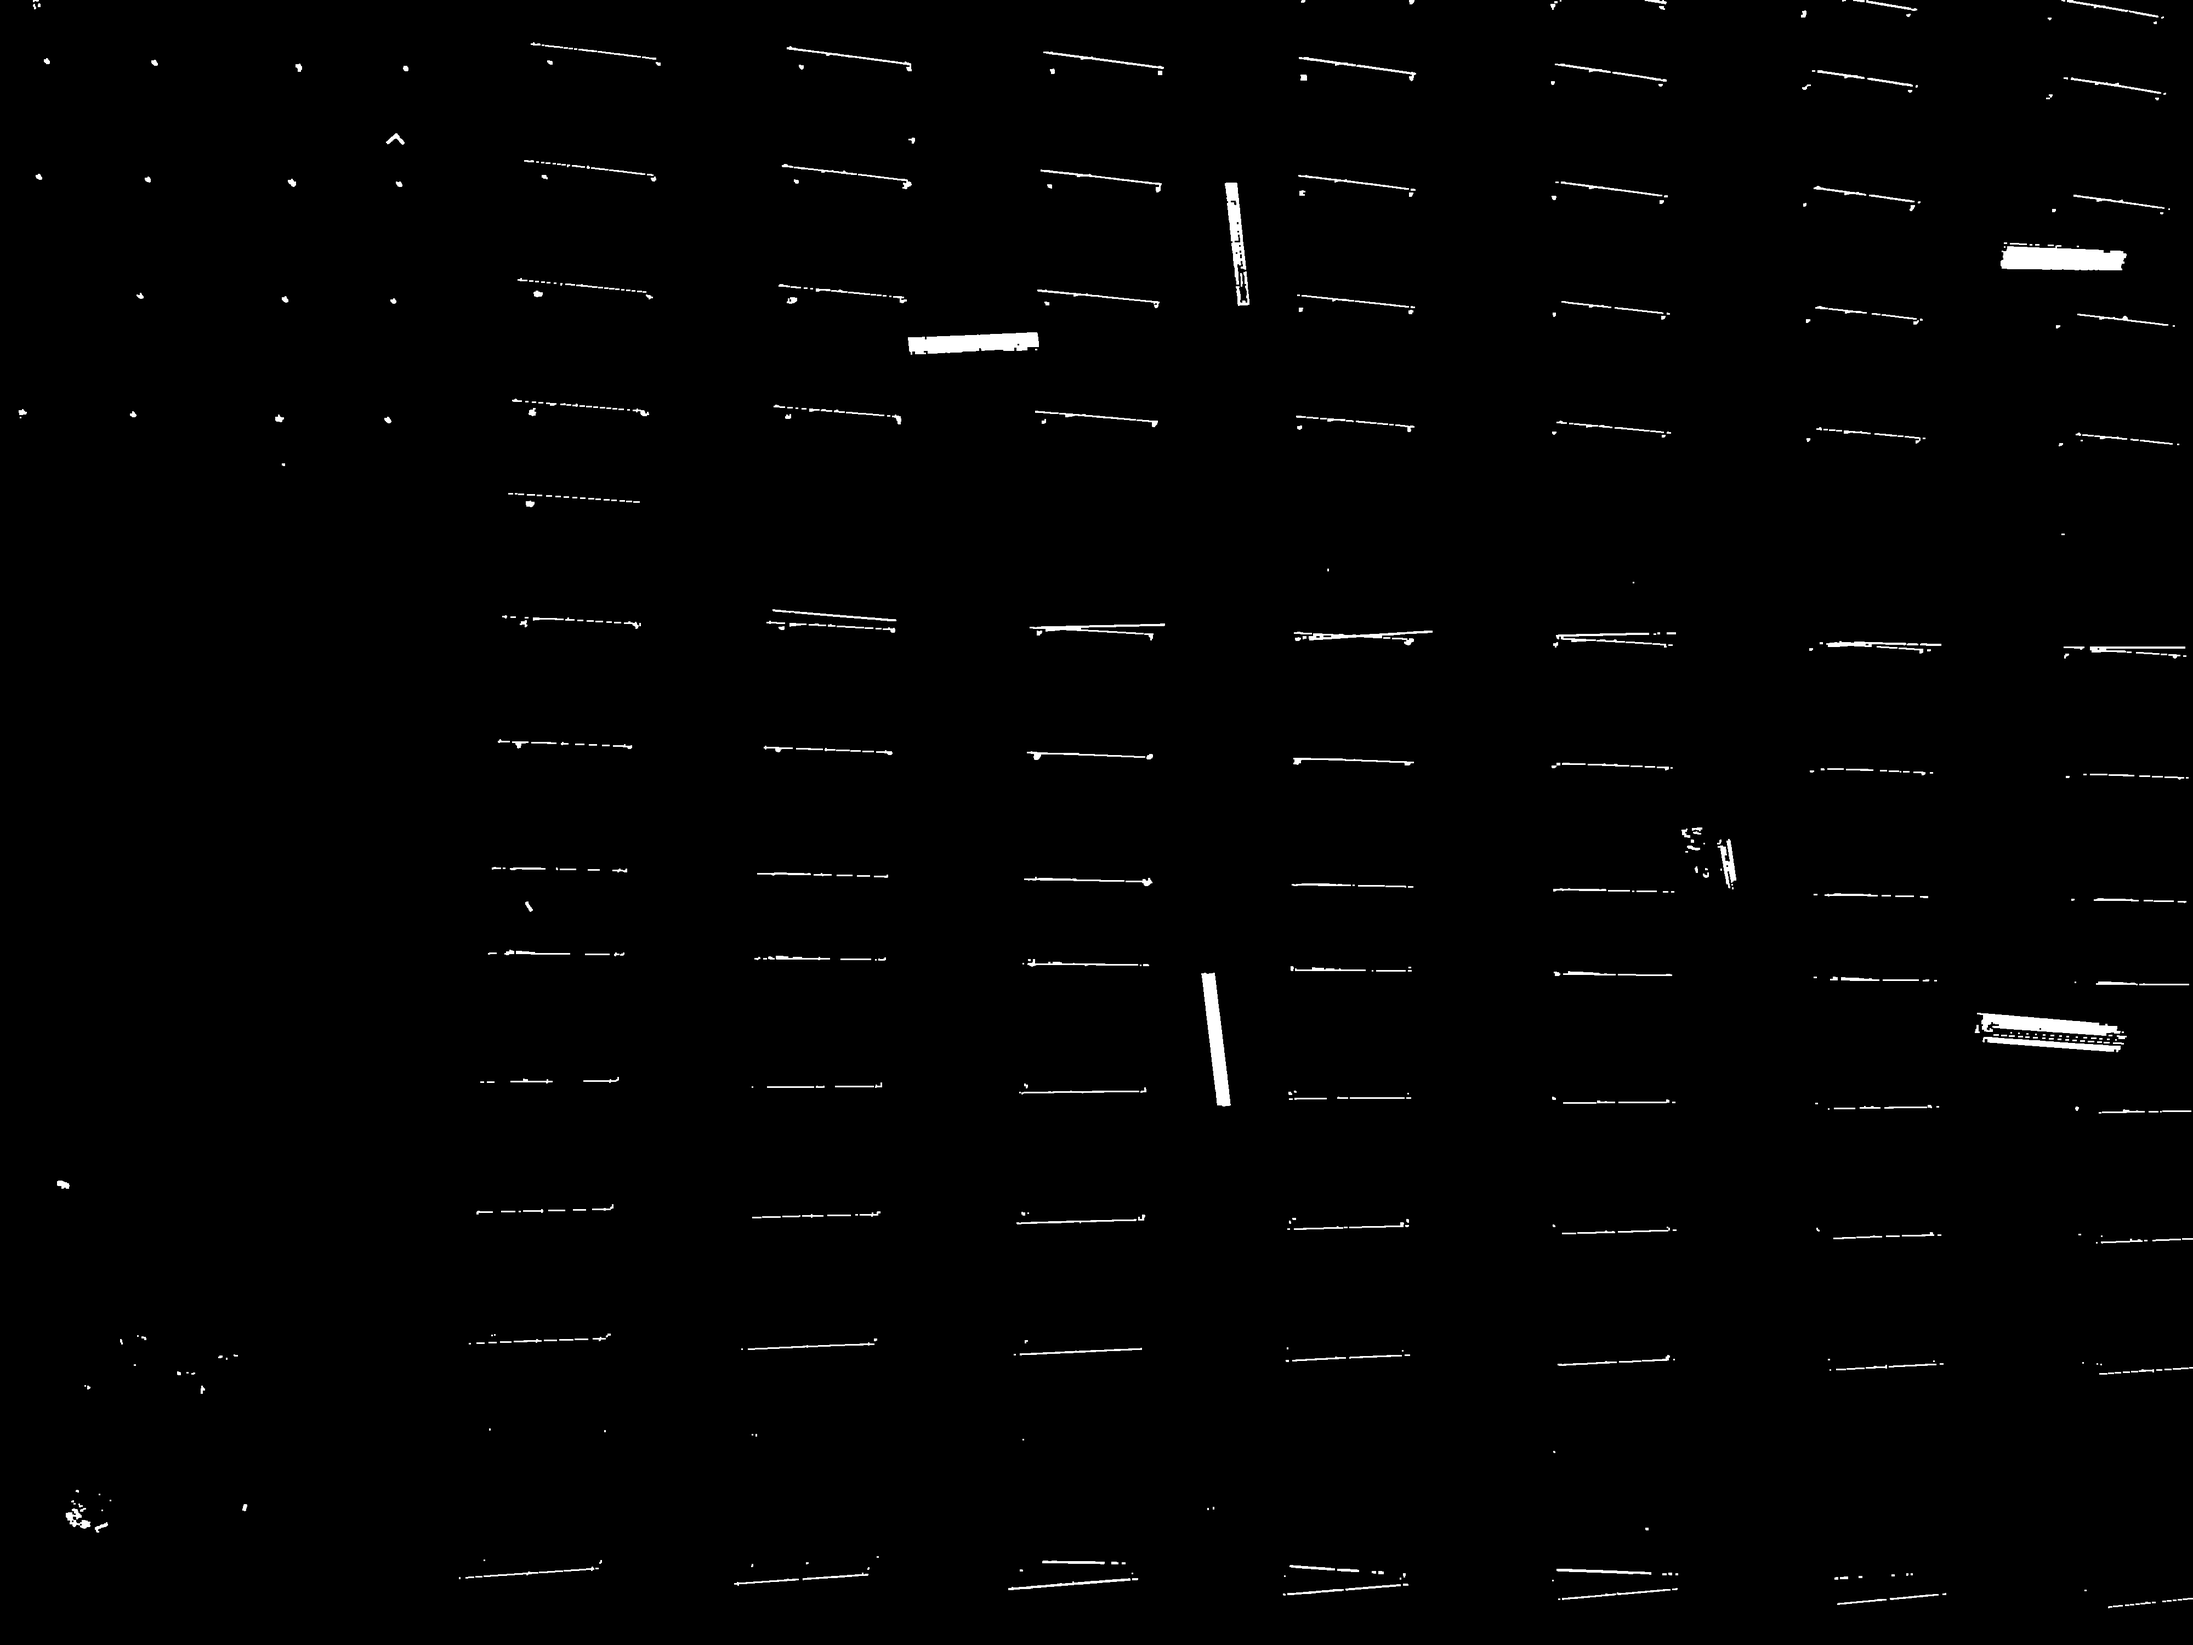
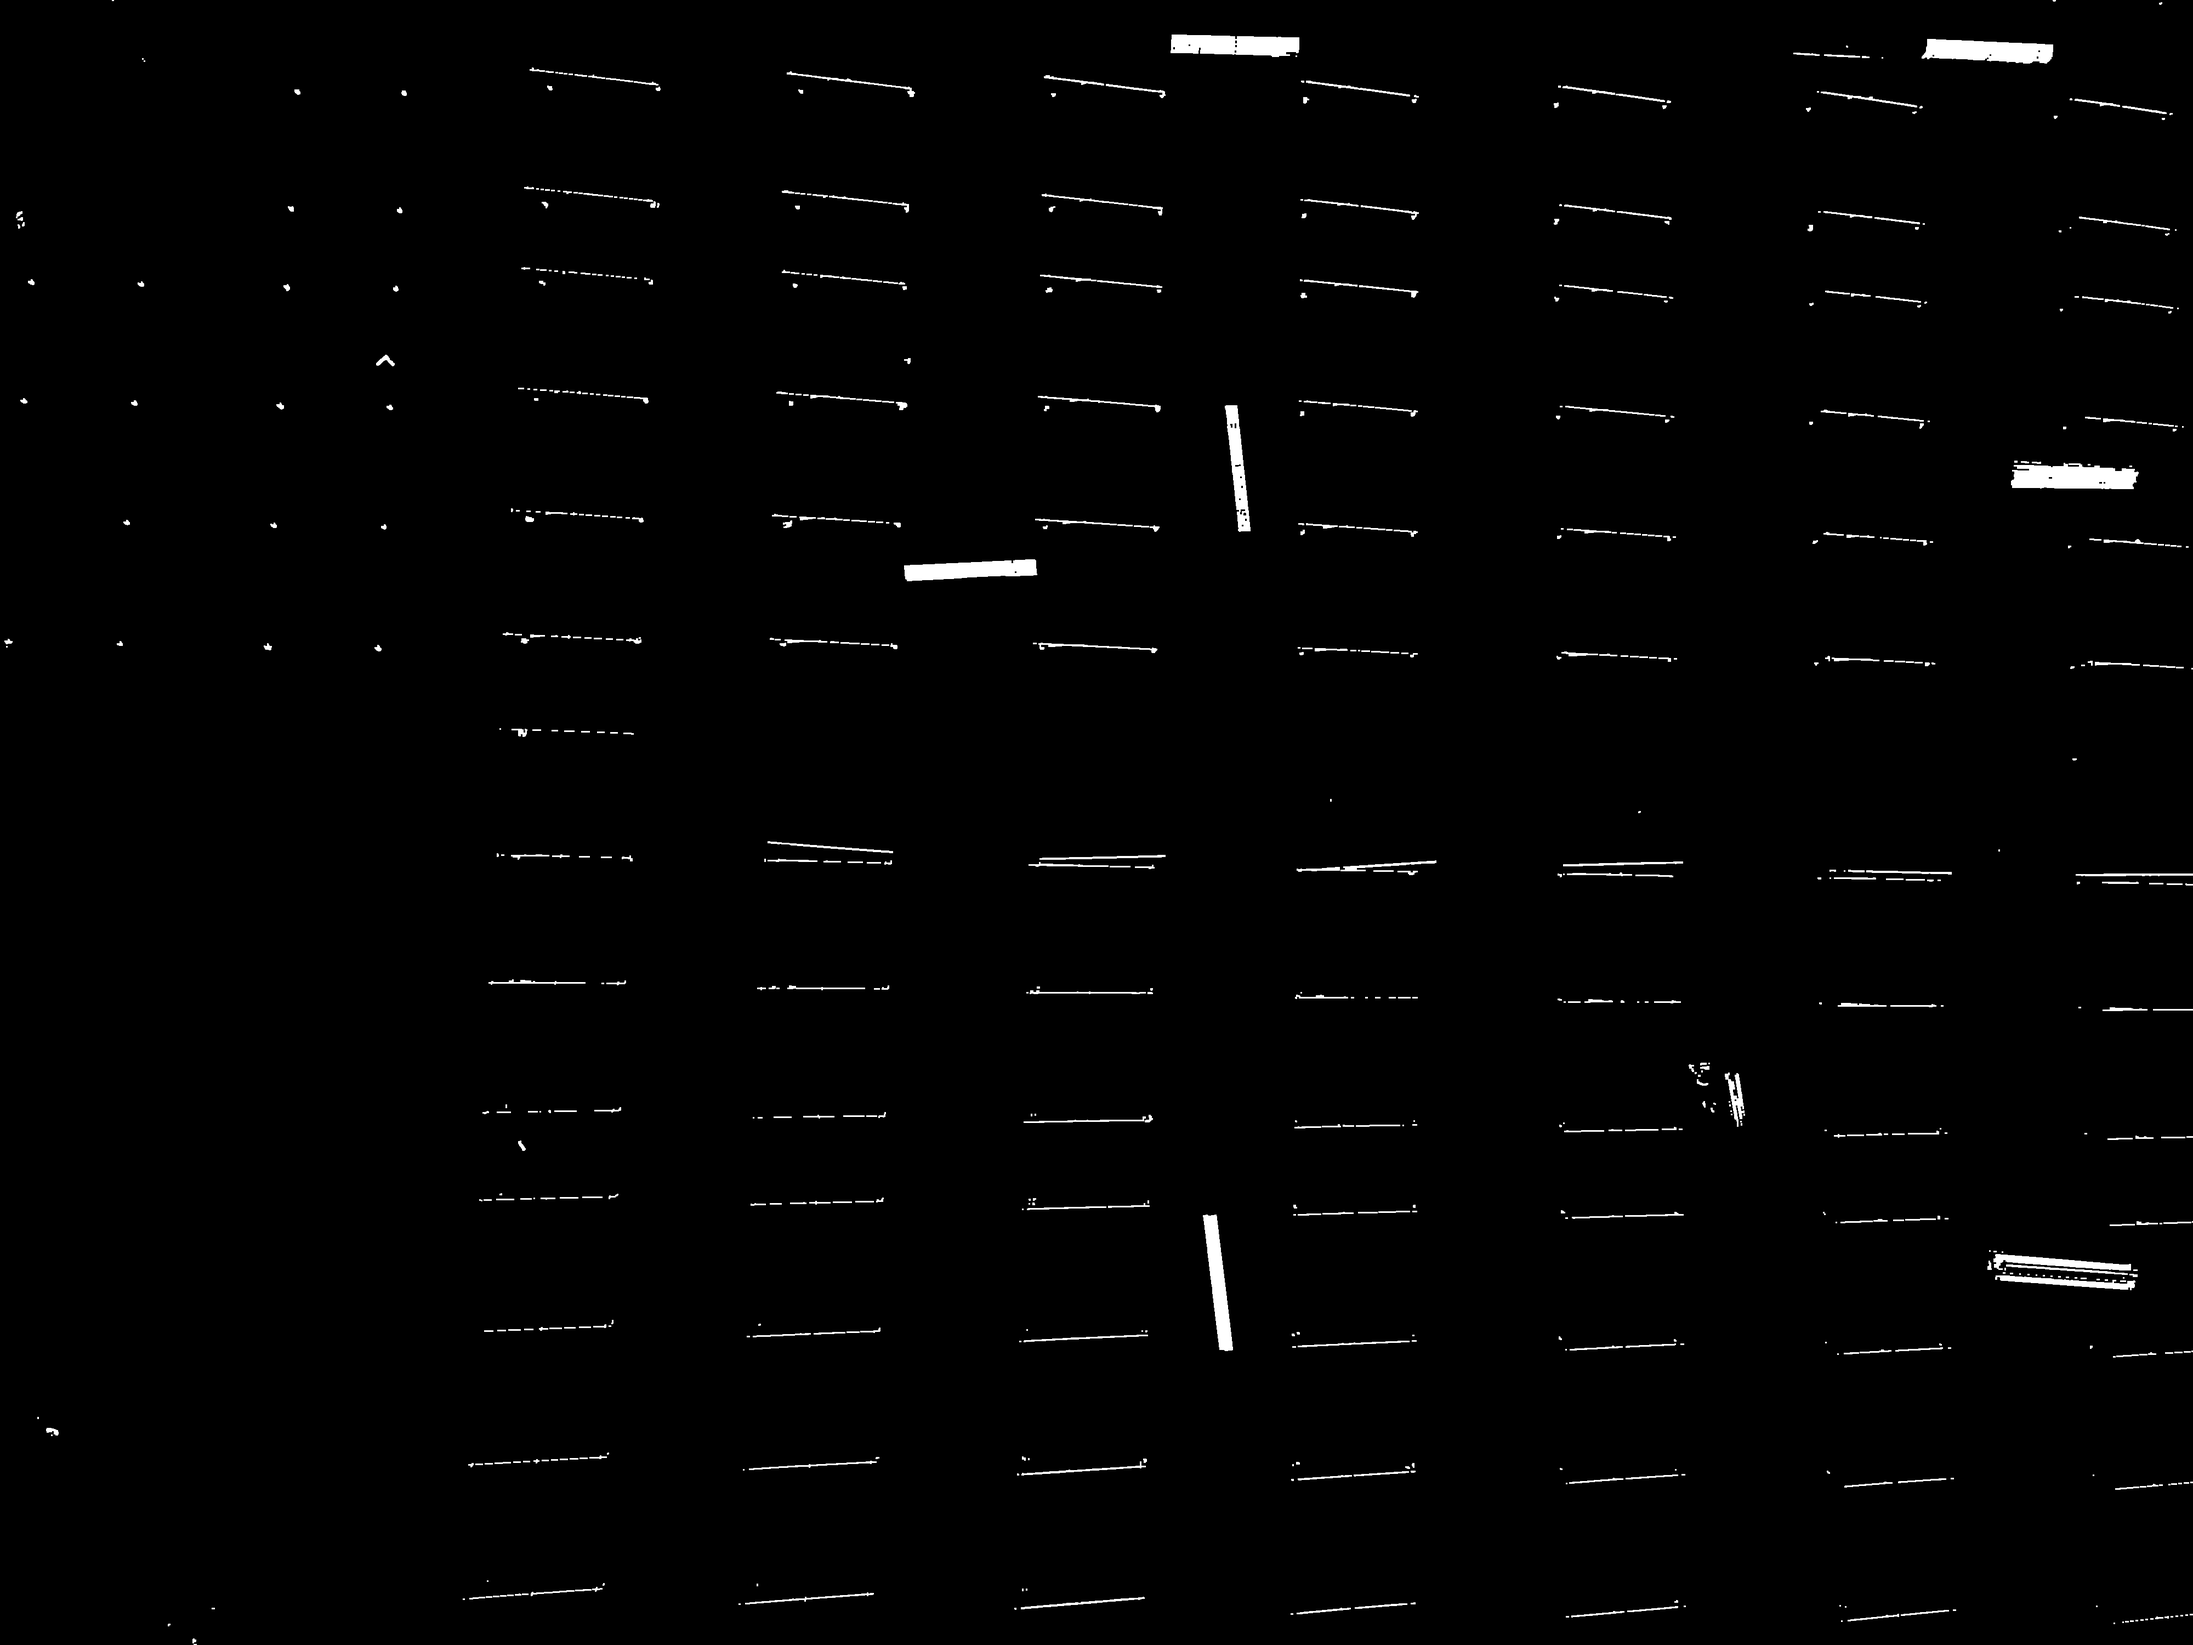
testing done

diff --git a/image_process.py b/image_process.py
@@ -1,10 +1,12 @@
 import cv2
 import numpy as np
+import matplotlib.pyplot as plt
 
 
-filename='ML-Dataset#2/M1_F1.3_0402.JPG'
+filename='ML-Dataset#2/M1_F1.3_0403.JPG'
 img = cv2.imread(filename)
 img = cv2.cvtColor(img, cv2.COLOR_BGR2RGB)
+clone = img.copy()
 
 def show(img):
     cv2.resize(img,(500,500))
@@ -74,7 +76,7 @@ def extra_contour_elimination(lines):
     return concave
 
 final_lines = extra_contour_elimination(lines) 
-print("Number of contours after elimincation: ",len(final_lines))
+print("Number of contours after elimination: ",len(final_lines))
 # print(final_lines)
 
 '''
@@ -95,7 +97,7 @@ def closest_node(node, nodes):
 distances=[]
 indexes=[]
 for line in final_lines:
-    dist,index=closest_node([721,252],line)
+    dist,index=closest_node([704,656],line)
     indexes.append(index)
     distances.append(dist)
 
@@ -104,3 +106,43 @@ print(min(distances))
 line=distances.index(min(distances))
 contour=indexes[line]
 print(final_lines[line][contour])
+
+required_contour = final_lines[line]
+x=required_contour[:,0][:,0]
+y=required_contour[:,0][:,1]
+
+rect = cv2.minAreaRect(required_contour)
+box = cv2.boxPoints(rect)
+box = np.int0(box)
+# cv2.drawContours(clone,[box],0,(0,0,255),2)
+
+# new_img = clone[y:y+h,x:x+h]
+# print(new_img)
+
+W = rect[1][0]
+H = rect[1][1]
+
+Xs = [i[0] for i in box]
+Ys = [i[1] for i in box]
+x1 = min(Xs)
+x2 = max(Xs)
+y1 = min(Ys)
+y2 = max(Ys)
+
+angle = rect[2]
+if angle < -45:
+    angle += 90
+
+# Center of rectangle in source image
+center = ((x1+x2)/2,(y1+y2)/2)
+# Size of the upright rectangle bounding the rotated rectangle
+size = (x2-x1, y2-y1)
+M = cv2.getRotationMatrix2D((size[0]/2, size[1]/2), angle, 1.0)
+# Cropped upright rectangle
+cropped = cv2.getRectSubPix(thresh, size, center)
+cropped = cv2.warpAffine(cropped, M, size)
+croppedW = H if H > W else W
+croppedH = H if H < W else W
+# Final cropped & rotated rectangle
+croppedRotated = cv2.getRectSubPix(cropped, (int(croppedW),int(croppedH)), (size[0]/2, size[1]/2))
+cv2.imwrite("req.png",croppedRotated)
